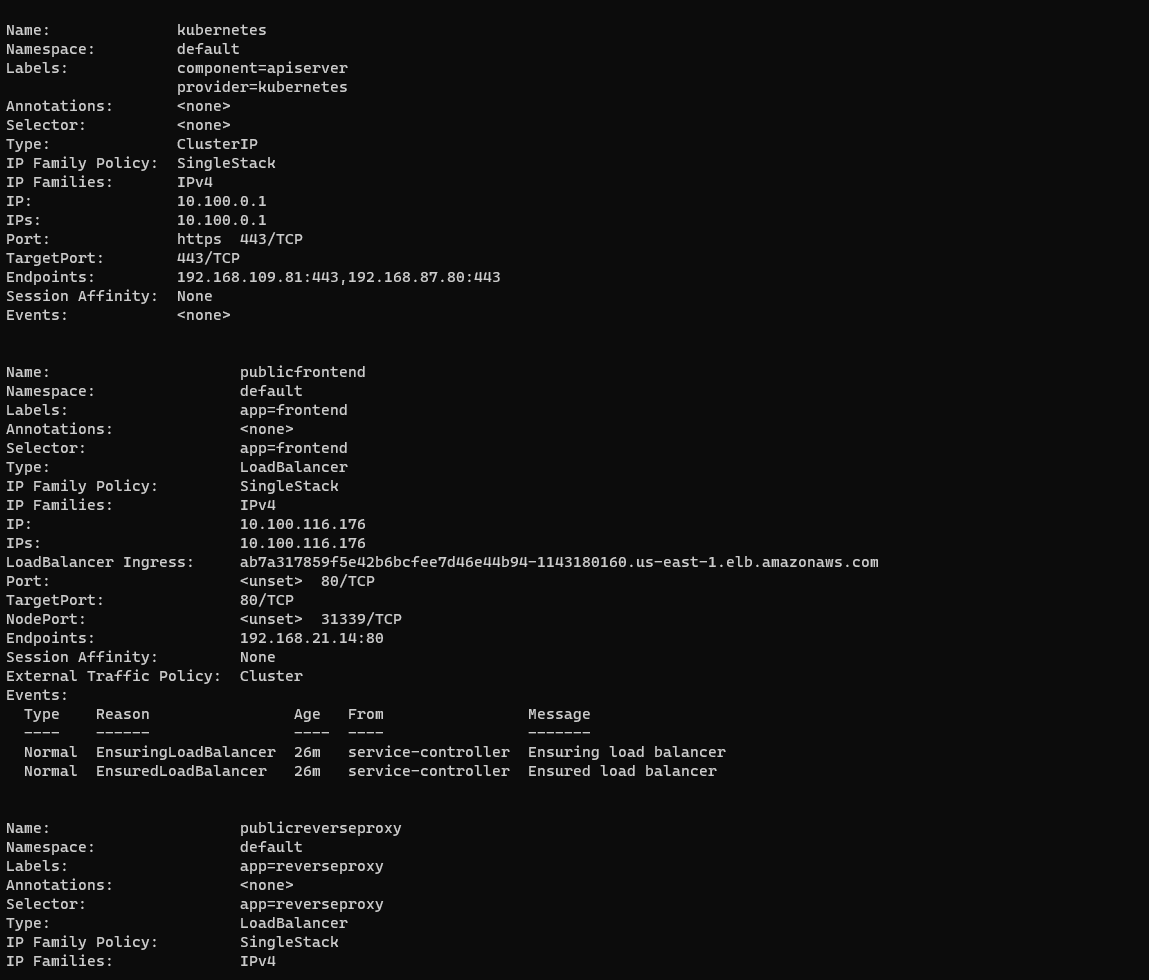
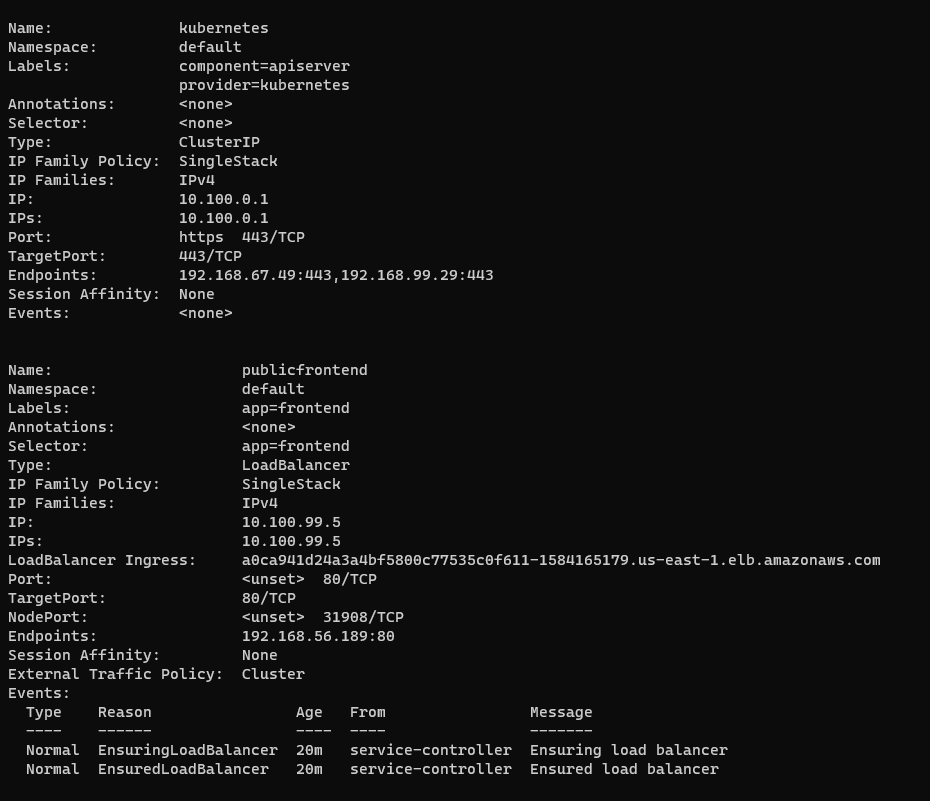
feat: added screenshots + yaml files

diff --git a/udagram-frontend/src/environments/environment.prod.ts b/udagram-frontend/src/environments/environment.prod.ts
@@ -5,7 +5,7 @@
 export const environment = {
   production: false,
   appName: 'Udagram',
-  apiHost: 'http://ac700fa679adf439394a26981a11a34a-45802461.us-east-1.elb.amazonaws.com:8080/api/v0'
+  apiHost: 'http://a63c5db2f889b4ce19ce2b03c21ca121-62484112.us-east-1.elb.amazonaws.com:8080/api/v0'
 };
 
 /*

diff --git a/udagram-frontend/src/environments/environment.ts b/udagram-frontend/src/environments/environment.ts
@@ -5,7 +5,7 @@
 export const environment = {
   production: false,
   appName: 'Udagram',
-  apiHost: 'http://ac700fa679adf439394a26981a11a34a-45802461.us-east-1.elb.amazonaws.com:8080/api/v0'
+  apiHost: 'http://a63c5db2f889b4ce19ce2b03c21ca121-62484112.us-east-1.elb.amazonaws.com:8080/api/v0'
 };
 
 /*
